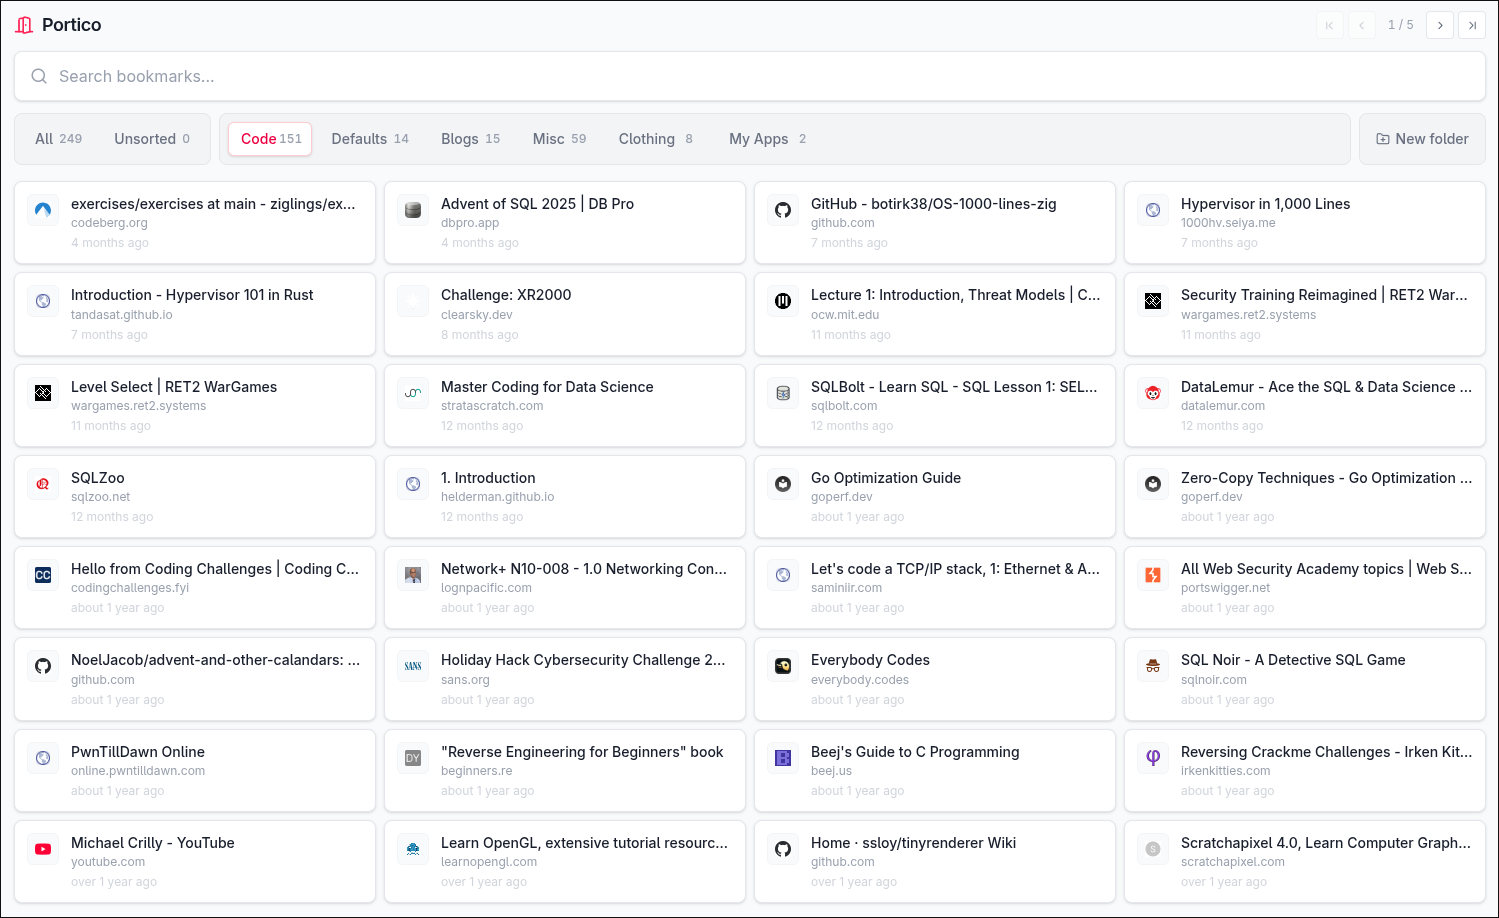
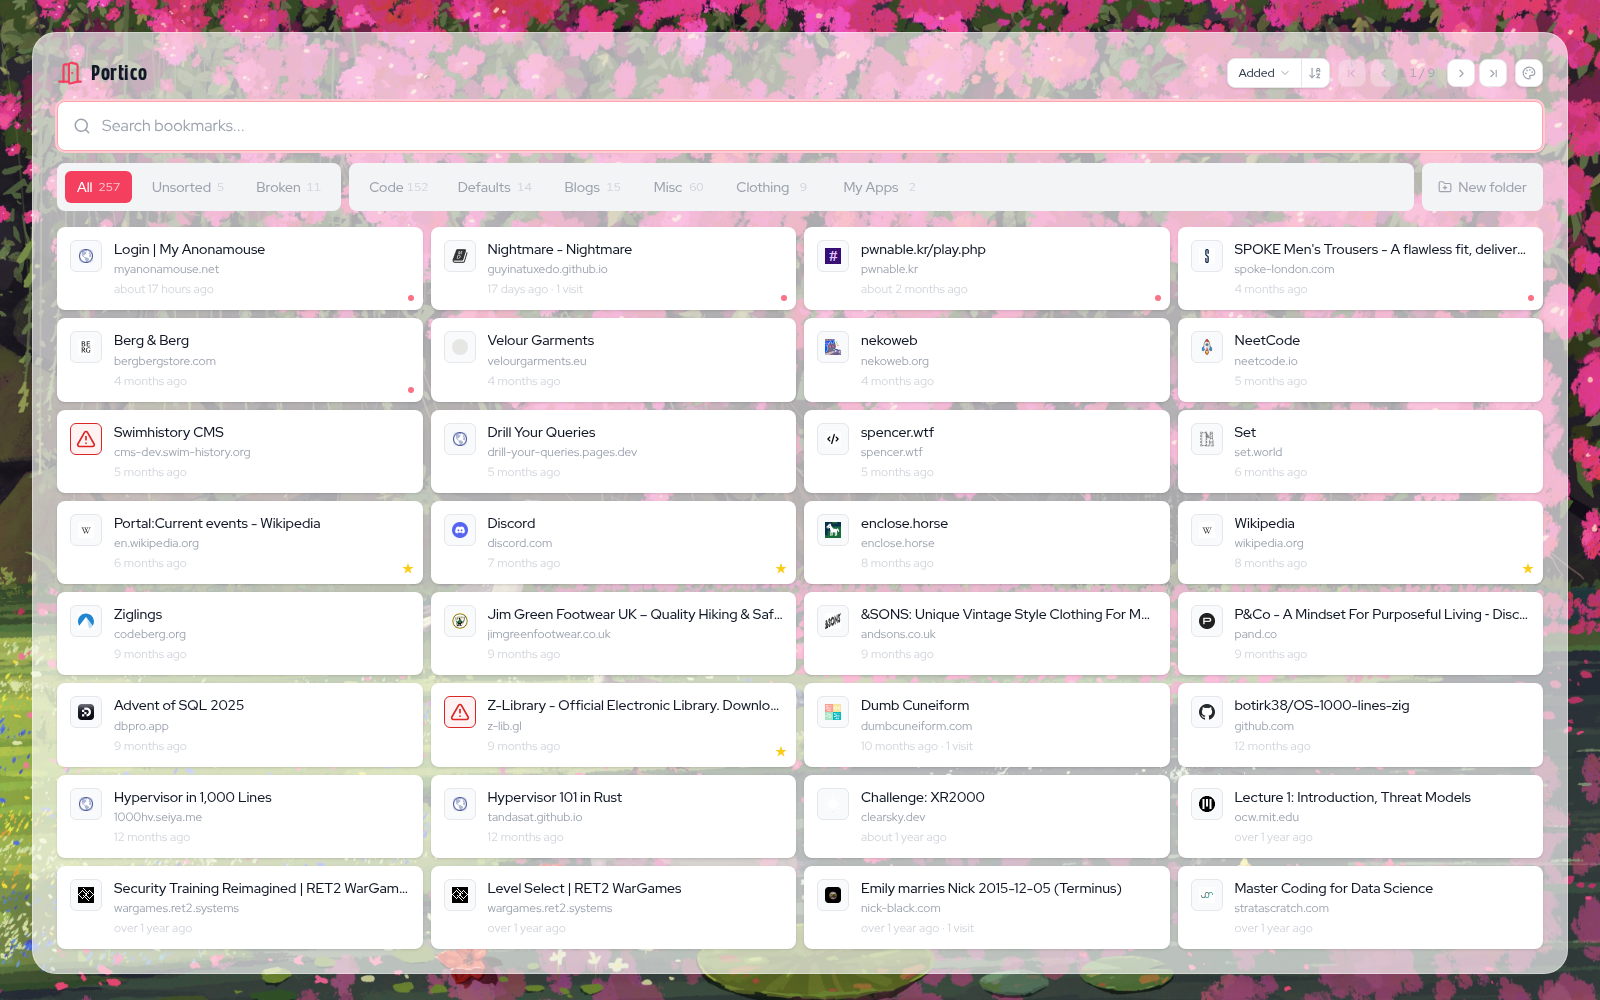
docs: refresh readme screenshot and center image

diff --git a/README.md b/README.md
@@ -1,6 +1,8 @@
-# Portico
+<h1 align="center">Portico</h1>
 
-<img src="portico.png" />
+<p align="center">
+  <img src="portico.png" width="800" style="border-radius: 12px;" />
+</p>
 
 Portico is my personal startpage and bookmark manager.
 
@@ -11,12 +13,12 @@ Portico is my personal startpage and bookmark manager.
 
 ## Getting Started
 
-Run `make dev` to boot everything up. 
+Run `make dev` to boot everything up.
 Run `make deploy` to build
 
 If you're using systemd:
 - `mv portico.service.example portico.service`
 - set your home directory
 - `make install-service`
-- `make start-service`. This will run everything in a service. 
+- `make start-service`. This will run everything in a service.
 - Add the extension to Chrome via `chrome://extensions/` > `load unpacked`.
